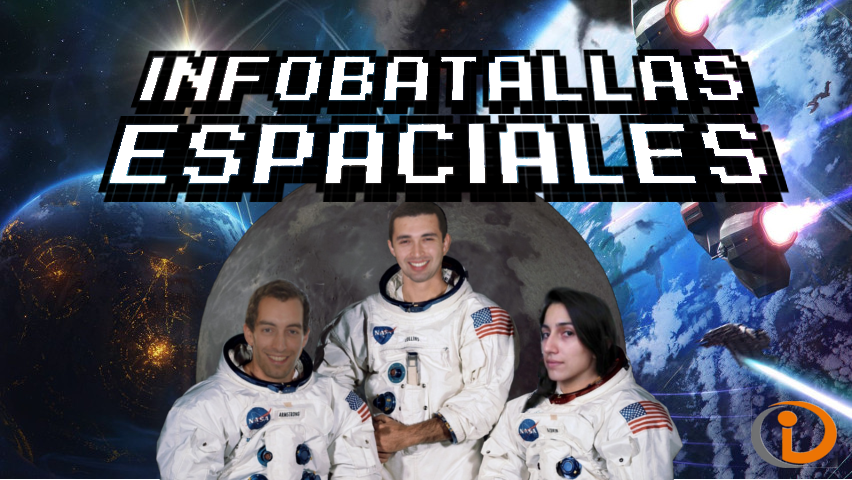
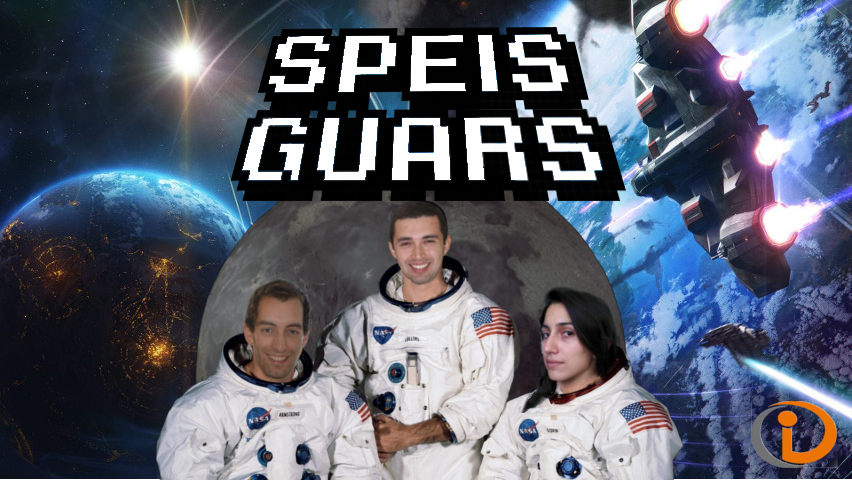
mas documentacion

Changed region(s): [[0.0915, 0.0312, 0.946, 0.5938]]

diff --git a/Visualizacion/main.py b/Visualizacion/main.py
@@ -5,7 +5,7 @@ from pygame.locals import *
 from escenas import *
 from time import sleep
 
-TITULO = "Infobatallas Espaciales"
+TITULO = "Speis Guars"
 
 #  Constantes de tamanhos para dibujar.
 SPACESHIPS = 45
@@ -38,7 +38,13 @@ MAX_vidas = 5
 
 class Inicio(Scene):
 
-    """ Ventana de inicio del juego"""
+    """ Ventana de inicio del juego.
+        Campos:
+           background:      (image) Imagen de fondo.
+           start_replay:    (bool) Comenzar a reproducir el replay.
+           replay:          (list(string)) Lineas del archivo log.
+           players:         (dict((ID:Jugador)) Contiene objetos Jugadores.
+           colortxt:        (list(int,int, int))Color del texto en RGB."""
 
     def __init__(self, director, path_log):
         """Parametros.
@@ -119,7 +125,19 @@ class Inicio(Scene):
 class Principal(Scene):
 
     """ Aqui se muestra toda la accion, se lee el log, se ven
-        los jugadores, sfx, movimientos, etc."""
+        los jugadores, sfx, movimientos, etc.
+        Campos:
+            director:        (MainFrame), manipulador del juego.
+            background:      (image) Imagen de fondo.
+            replay:          (list(string)) Lineas del archivo log.
+            linea:           (string) Linea leida actual de replay.
+            next_turn:       (bool) Indica si se va ha leer una nueva linea.
+            players:         (dict((ID:Jugador)) Contiene objetos Jugadores.
+            colortxt:        (list(int,int, int))Color del texto en RGB.
+            end_replay:      (bool) Indica si ha terminado el replay.
+            acciones:        (list(strings) Pila de informacion ya leida.
+            turnos_restantes:(int)turnos restantes para que termine el juego.
+    """
 
     def __init__(self, director, dict_players, replay):
         """ Parametros:
@@ -228,7 +246,12 @@ class Principal(Scene):
 class Estadisticas(Scene):
     # TODO
 
-    """ Ventana final del juego, muestra los resultados, tablas, etc."""
+    """ Ventana final del juego, muestra los resultados, tablas, etc.
+        Campos:
+            director:        (MainFrame), manipulador del juego.
+            background:      (image) Imagen de fondo.
+            players:         (dict((ID:Jugador)) Contiene objetos Jugadores.
+    """
 
     def __init__(self, director, dict_players):
         """ Parametros:
@@ -277,7 +300,16 @@ class Estadisticas(Scene):
 
 class Jugador(pygame.sprite.Sprite):
 
-    """ Informacion de un jugador """
+    """ Informacion de un jugador.
+        Campos:
+            ID:                 (string) Identidicador del jugador.
+            alerta:             (int) Estado de alerta.
+            vidas:              (int) Cantidad de vidas.
+            battlefieldpos_x:   (int) Posicion x de la matriz del juego.
+            battlefieldpos_y:   (int) Posicion y de la matriz del juego.
+            orientacion:        (int) Grados de orientacion, norte=0.
+            images:             (list(images))Sprites de una nave.
+            visible:            (int) indice, sprite de jugador."""
 
     def __init__(self, ID):
         """Parametros:
@@ -285,13 +317,12 @@ class Jugador(pygame.sprite.Sprite):
 
         pygame.sprite.Sprite.__init__(self)
         # Datos jugador.
-        self.ID = ID                # (string) Identidicador del jugador.
-        self.alerta = 0             # (int) Estado de alerta.
-        self.vidas = 2              # (int) Cantidad de vidas.
-        self.battlefieldpos_x = 0   # (int) Posicion x de la matriz del juego.
-        self.battlefieldpos_y = 0   # (int) Posicion y de la matriz del juego.
-        self.orientacion = 0        # (int) Grados de orientacion, norte=0.
-        self.visible = True         # (boll)Mostrar la nave en pantalla.
+        self.ID = ID
+        self.alerta = 0
+        self.vidas = 2
+        self.battlefieldpos_x = 0
+        self.battlefieldpos_y = 0
+        self.orientacion = 0
 
         # Datos dibujo.
         idspaceship = randint(0, SPACESHIPS-1)
@@ -401,20 +432,25 @@ class Jugador(pygame.sprite.Sprite):
             self.rect.centery = new_y
 
     def disparar(self, direccion):
+        """ La nave dispara a la direccion dada.
+            Parametros:
+                - direccion: (tupla), direccion a la que se disparo."""
         # TODO
 
         pass
 
     def quitar_vida(self):
+        """ Le resta una vida al jugador."""
         self.vidas -= 1
 
     def morir(self):
+        """ La nave explota, y luego desparece."""
         if self.visible == 0:
             self.visible += 1
             flag = False
 
             # SFX
-            explosion = "explosion{0}.wav".format(choice(("1", "2", "3", "4")))
+            explosion = "explosion{0}.wav".format(choice("1234"))
             sfx_path = os.path.join("data", "sfx", explosion)
             pygame.mixer.Sound(sfx_path).play()
 
@@ -464,7 +500,9 @@ class Bala(pygame.sprite.Sprite):
 # ------------------------
 
 def cargar_sprite(path, escala=ESCALA):
-
+    """ Carga imagenes para sprites.
+        Parametros:
+            escala: (float) escala de conversion."""
     image = load_image(path, True)
 
     width, height = image.get_size()
@@ -475,6 +513,7 @@ def cargar_sprite(path, escala=ESCALA):
 
 
 def dibujar_cuadricula(screen):
+    """ Dibuja el tablero."""
     cuadrado = BATTLEFIELDSIZE / BATTLEFIELDDIVISIONS
     coor_x = BATTLEFIELDINICIO[0]
     coor_y = BATTLEFIELDINICIO[1]
@@ -492,6 +531,11 @@ def dibujar_cuadricula(screen):
 
 
 def transformar_coordenadas(coor_x, coor_y):
+    """ Transforma coordenadas de tablero a coordenadas de pygame.
+        Paramatros:
+            -coor_x: (int) coordenada x de tablero.
+            -coor_y: (int) coordenada y de tablero.
+    """
     cuadrado = BATTLEFIELDSIZE / BATTLEFIELDDIVISIONS
     new_x = BATTLEFIELDINICIO[0]+(coor_x*cuadrado)+(cuadrado/2)
     new_y = BATTLEFIELDINICIO[1]+(coor_y*cuadrado)+(cuadrado/2)
@@ -512,7 +556,11 @@ def cargar_jugadores(log):
 
 
 def discriminar_accion(scene, accion, argumentos):
-    """ Por cada comando del logfile, determina que accion tomar."""
+    """ Por cada comando del logfile, determina que accion tomar.
+        Parametros:
+            accion:     (string) accion leida del logfile-replay.
+            argumentos: (string) argumentos correspondientes a la accion.
+    """
 
     if accion == "aparecer":
         sleep(0.05)
